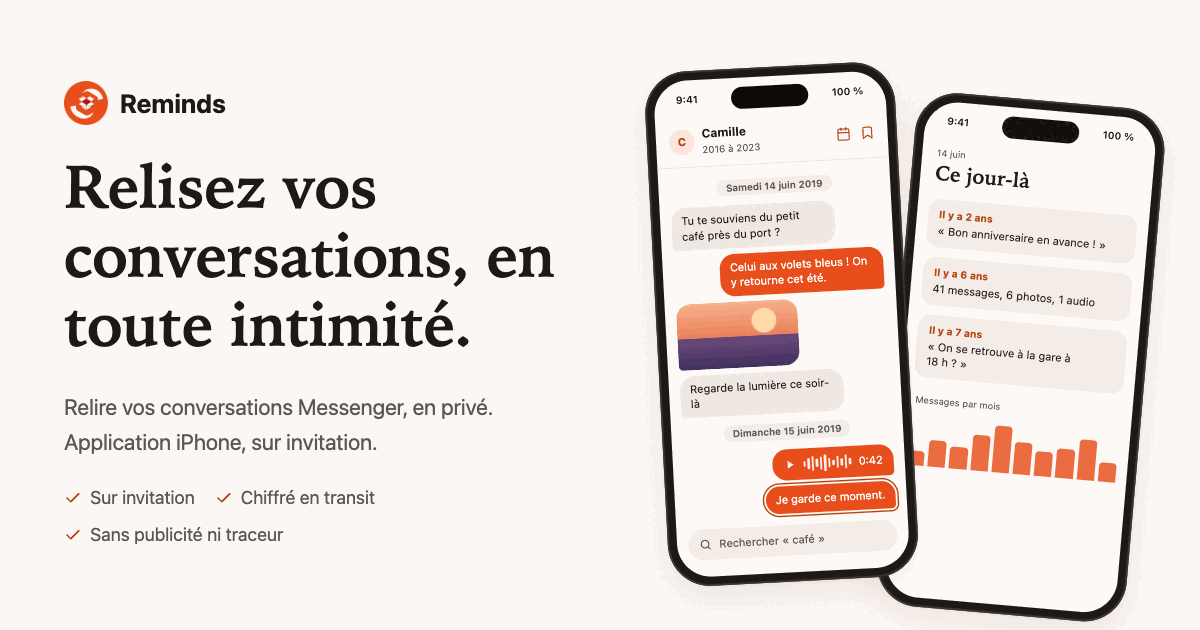
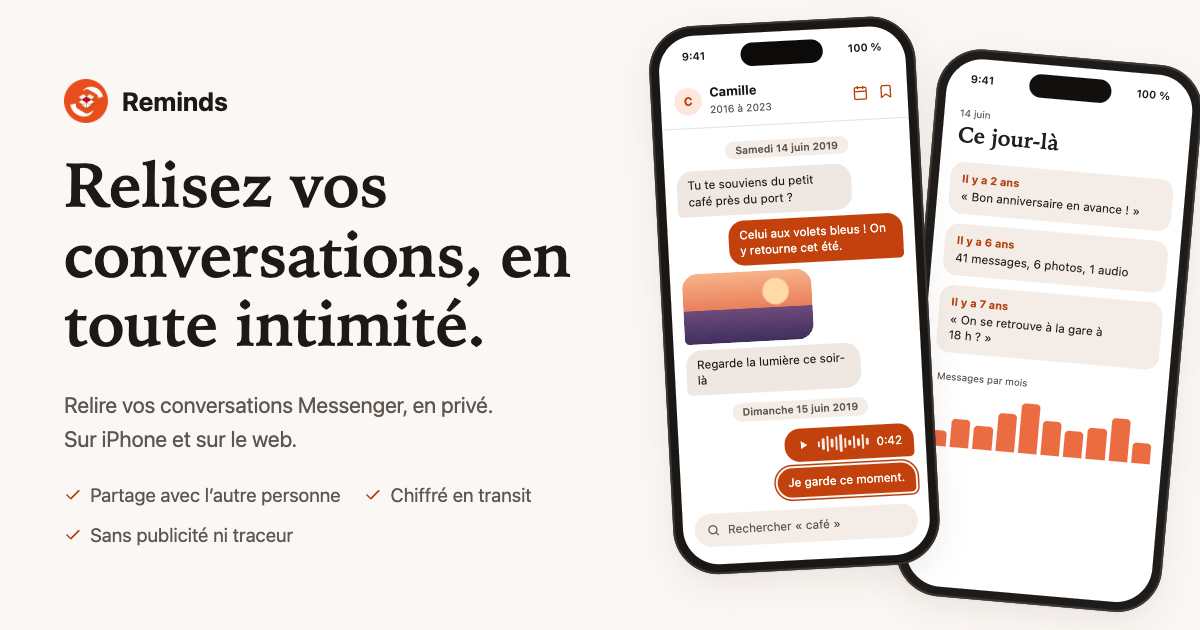
feat(site): open Reminds CTA, honest access steps, web app and iPhone
Primary CTA now opens the web app (/app/) instead of a mailto invitation.
Access section: get the Facebook export, import (coming soon), share with
the other person. Header gets the CTA and a language switch. New OG image.

diff --git a/index.html b/index.html
@@ -4,8 +4,11 @@
   <meta charset="utf-8">
   <meta name="viewport" content="width=device-width, initial-scale=1">
   <title>Reminds : relire vos conversations Messenger, en privé</title>
-  <meta name="description" content="Reminds est une application iPhone privée pour relire vos conversations Messenger : recherche, photos, audios, calendrier, statistiques et « Ce jour-là ». Accès sur invitation.">
+  <meta name="description" content="Reminds, sur iPhone et sur le web, pour relire vos conversations Messenger en privé : recherche, photos, audios, calendrier, statistiques et « Ce jour-là ».">
   <link rel="canonical" href="https://reminds.cybersds.fr/">
+  <link rel="alternate" hreflang="fr" href="https://reminds.cybersds.fr/">
+  <link rel="alternate" hreflang="en" href="https://reminds.cybersds.fr/en/">
+  <link rel="alternate" hreflang="x-default" href="https://reminds.cybersds.fr/">
   <meta name="theme-color" media="(prefers-color-scheme: light)" content="#fbf7f4">
   <meta name="theme-color" media="(prefers-color-scheme: dark)" content="#14110f">
   <link rel="icon" href="/favicon.ico" sizes="any">
@@ -14,9 +17,10 @@
   <link rel="manifest" href="/site.webmanifest">
   <meta property="og:type" content="website">
   <meta property="og:locale" content="fr_FR">
+  <meta property="og:locale:alternate" content="en_US">
   <meta property="og:site_name" content="Reminds">
-  <meta property="og:title" content="Reminds : relire vos conversations, en privé">
-  <meta property="og:description" content="Application iPhone privée pour relire vos conversations Messenger. Accès sur invitation.">
+  <meta property="og:title" content="Reminds : relire vos conversations, en privé">
+  <meta property="og:description" content="Relisez vos conversations Messenger en privé, sur iPhone et sur le web.">
   <meta property="og:url" content="https://reminds.cybersds.fr/">
   <meta property="og:image" content="https://reminds.cybersds.fr/images/og-image.png">
   <meta property="og:image:width" content="1200">
@@ -42,6 +46,8 @@
           <li><a href="#acces">Accès</a></li>
         </ul>
       </nav>
+      <a class="btn btn-primary btn-small header-cta" href="/app/">Ouvrir Reminds</a>
+      <a class="lang-switch" href="/en/" hreflang="en" lang="en" aria-label="English version">EN</a>
       <button class="theme-toggle" type="button" data-theme-toggle aria-pressed="false" aria-label="Thème sombre">
         <svg class="icon-moon" viewBox="0 0 24 24" fill="none" stroke="currentColor" stroke-width="2" stroke-linecap="round" stroke-linejoin="round" aria-hidden="true"><path d="M21 12.8A9 9 0 1 1 11.2 3a7 7 0 0 0 9.8 9.8z"/></svg>
         <svg class="icon-sun" viewBox="0 0 24 24" fill="none" stroke="currentColor" stroke-width="2" stroke-linecap="round" stroke-linejoin="round" aria-hidden="true"><circle cx="12" cy="12" r="4"/><path d="M12 2v2M12 20v2M4.9 4.9l1.4 1.4M17.7 17.7l1.4 1.4M2 12h2M20 12h2M4.9 19.1l1.4-1.4M17.7 6.3l1.4-1.4"/></svg>
@@ -53,21 +59,21 @@
     <section class="hero" aria-labelledby="titre">
       <div class="wrap">
         <div>
-          <p class="eyebrow">Application iPhone privée</p>
+          <p class="eyebrow">Sur iPhone et sur le web, en privé</p>
           <h1 id="titre">Relisez vos conversations, en toute intimité.</h1>
-          <p class="lead">Reminds transforme l'export de vos discussions Messenger en un fil clair, que l'on parcourt et que l'on fouille : messages, photos, audios, dates et souvenirs. Pour vous seul, sur invitation.</p>
+          <p class="lead">Reminds transforme l'export de vos discussions Messenger en un fil clair, que l'on parcourt et que l'on fouille : messages, photos, audios, dates et souvenirs. Pour vous, et pour la personne avec qui vous la partagez.</p>
           <div class="hero-actions">
-            <a class="btn btn-primary" href="mailto:contact@cybersds.fr?subject=Invitation%20Reminds">Demander une invitation</a>
+            <a class="btn btn-primary" href="/app/">Ouvrir Reminds</a>
             <a class="btn btn-secondary" href="#fonctionnalites">Voir les fonctionnalités</a>
           </div>
           <ul class="hero-note">
-            <li><svg viewBox="0 0 24 24" fill="none" stroke="currentColor" stroke-width="2.2" stroke-linecap="round" stroke-linejoin="round" aria-hidden="true"><path d="M20 6 9 17l-5-5"/></svg>Sur invitation</li>
+            <li><svg viewBox="0 0 24 24" fill="none" stroke="currentColor" stroke-width="2.2" stroke-linecap="round" stroke-linejoin="round" aria-hidden="true"><path d="M20 6 9 17l-5-5"/></svg>iPhone et web installable</li>
             <li><svg viewBox="0 0 24 24" fill="none" stroke="currentColor" stroke-width="2.2" stroke-linecap="round" stroke-linejoin="round" aria-hidden="true"><path d="M20 6 9 17l-5-5"/></svg>Chiffré en transit</li>
             <li><svg viewBox="0 0 24 24" fill="none" stroke="currentColor" stroke-width="2.2" stroke-linecap="round" stroke-linejoin="round" aria-hidden="true"><path d="M20 6 9 17l-5-5"/></svg>Sans publicité ni traceur</li>
           </ul>
         </div>
 
-        <div class="phones" role="img" aria-label="Maquette de Reminds sur iPhone : une conversation fictive avec photo, audio et recherche, et l'écran « Ce jour-là ».">
+        <div class="phones" role="img" aria-label="Maquette de Reminds : une conversation fictive avec photo, audio et recherche, et l'écran « Ce jour-là ».">
           <div class="phone phone-back">
             <div class="phone-screen">
               <span class="phone-island"></span>
@@ -135,7 +141,7 @@
           <li class="feature">
             <span class="icon-tile"><svg viewBox="0 0 24 24" fill="none" stroke="currentColor" stroke-width="2" stroke-linecap="round" stroke-linejoin="round" aria-hidden="true"><path d="M21 15v4a2 2 0 0 1-2 2H5a2 2 0 0 1-2-2v-4"/><path d="M7 10l5 5 5-5M12 15V3"/></svg></span>
             <h3>Import de l'export Messenger</h3>
-            <p>Votre export Facebook (format JSON) devient une conversation complète, avec ses photos, GIF et audios.</p>
+            <p>Votre export Facebook (format JSON) devient une conversation complète, avec ses photos, GIF et audios. L'import depuis l'app arrive bientôt.</p>
           </li>
           <li class="feature">
             <span class="icon-tile"><svg viewBox="0 0 24 24" fill="none" stroke="currentColor" stroke-width="2" stroke-linecap="round" stroke-linejoin="round" aria-hidden="true"><circle cx="11" cy="11" r="7"/><path d="m20 20-3.5-3.5"/></svg></span>
@@ -187,11 +193,11 @@
         <ul class="checks">
           <li>
             <span class="icon-tile"><svg viewBox="0 0 24 24" fill="none" stroke="currentColor" stroke-width="2" stroke-linecap="round" stroke-linejoin="round" aria-hidden="true"><path d="M16 21v-2a4 4 0 0 0-4-4H6a4 4 0 0 0-4 4v2"/><circle cx="9" cy="7" r="4"/><path d="M19 8v6M22 11h-6"/></svg></span>
-            <div><strong>Sur invitation uniquement</strong><p>Pas d'inscription publique. Seules les adresses e-mail invitées peuvent se connecter, avec un code à 6 chiffres reçu par e-mail.</p></div>
+            <div><strong>Sur invitation</strong><p>Pas d'inscription publique : on entre dans Reminds parce qu'une conversation vous a été partagée. Connexion avec un code à 6 chiffres reçu par e-mail, ou avec votre compte Google.</p></div>
           </li>
           <li>
             <span class="icon-tile"><svg viewBox="0 0 24 24" fill="none" stroke="currentColor" stroke-width="2" stroke-linecap="round" stroke-linejoin="round" aria-hidden="true"><rect x="3" y="11" width="18" height="11" rx="2"/><path d="M7 11V7a5 5 0 0 1 10 0v4"/></svg></span>
-            <div><strong>Chiffré en transit</strong><p>Tout échange entre l'app et le serveur passe par HTTPS. Les photos et audios ne sont servis qu'avec une session valide, jamais par un lien public.</p></div>
+            <div><strong>Chiffré en transit</strong><p>Tout échange entre Reminds et le serveur passe par HTTPS. Les photos et audios ne sont servis qu'avec une session valide, jamais par un lien public.</p></div>
           </li>
           <li>
             <span class="icon-tile"><svg viewBox="0 0 24 24" fill="none" stroke="currentColor" stroke-width="2" stroke-linecap="round" stroke-linejoin="round" aria-hidden="true"><rect x="2" y="3" width="20" height="8" rx="2"/><rect x="2" y="13" width="20" height="8" rx="2"/><path d="M6 7h.01M6 17h.01"/></svg></span>
@@ -199,7 +205,7 @@
           </li>
           <li>
             <span class="icon-tile"><svg viewBox="0 0 24 24" fill="none" stroke="currentColor" stroke-width="2" stroke-linecap="round" stroke-linejoin="round" aria-hidden="true"><path d="M7 3H5a2 2 0 0 0-2 2v2M17 3h2a2 2 0 0 1 2 2v2M7 21H5a2 2 0 0 1-2-2v-2M17 21h2a2 2 0 0 0 2-2v-2"/><path d="M9 9v1M15 9v1M12 9v4h-1M9 16a4 4 0 0 0 6 0"/></svg></span>
-            <div><strong>Verrou Face ID</strong><p>L'app se verrouille et s'ouvre avec votre visage. La reconnaissance est faite par l'iPhone : rien ne quitte l'appareil.</p></div>
+            <div><strong>Verrou Face ID sur iPhone</strong><p>L'app iPhone se verrouille et s'ouvre avec votre visage. La reconnaissance est faite par l'iPhone : rien ne quitte l'appareil.</p></div>
           </li>
         </ul>
       </div>
@@ -209,28 +215,40 @@
       <div class="wrap">
         <div class="section-head">
           <p class="eyebrow">Accès</p>
-          <h2 id="titre-acces">Sur invitation, en trois étapes.</h2>
-          <p>Reminds n'est pas en libre accès. L'app iPhone est installée en privé pour l'instant ; elle n'est pas encore proposée sur l'App Store.</p>
+          <h2 id="titre-acces">Sur iPhone et sur le web, en trois étapes.</h2>
+          <p>Reminds s'ouvre dans votre navigateur ou sur iPhone. Le même compte, les mêmes conversations, où que vous soyez.</p>
         </div>
+        <ul class="platforms">
+          <li>
+            <span class="icon-tile"><svg viewBox="0 0 24 24" fill="none" stroke="currentColor" stroke-width="2" stroke-linecap="round" stroke-linejoin="round" aria-hidden="true"><rect x="2" y="4" width="20" height="13" rx="2"/><path d="M8 21h8M12 17v4"/></svg></span>
+            <div><strong>App web, installable</strong><p>Sur ordinateur comme sur téléphone, dans le navigateur. Installez-la depuis le navigateur pour l'ouvrir comme une app : elle se met à jour toute seule.</p></div>
+          </li>
+          <li>
+            <span class="icon-tile"><svg viewBox="0 0 24 24" fill="none" stroke="currentColor" stroke-width="2" stroke-linecap="round" stroke-linejoin="round" aria-hidden="true"><rect x="6" y="2" width="12" height="20" rx="3"/><path d="M11 18h2"/></svg></span>
+            <div><strong>App iPhone</strong><p>Avec Face ID et la relecture hors ligne de ce que vous avez déjà ouvert. Installée en privé pour l'instant : elle n'est pas encore sur l'App Store.</p></div>
+          </li>
+        </ul>
         <ol class="steps">
           <li>
-            <h3>Demandez une invitation</h3>
-            <p>Écrivez à <a href="mailto:contact@cybersds.fr?subject=Invitation%20Reminds">contact@cybersds.fr</a> en expliquant votre besoin. Votre adresse e-mail est ajoutée à la liste des personnes invitées.</p>
+            <h3>Récupérez votre export Facebook</h3>
+            <p>Dans les paramètres de Facebook, téléchargez vos informations, rubrique Messages, au format JSON. Facebook vous envoie un fichier zip.</p>
           </li>
           <li>
-            <h3>Votre conversation est importée</h3>
-            <p>Vous téléchargez l'export de vos messages depuis Facebook. Il est importé sur le serveur privé, avec ses photos et audios.</p>
+            <span class="badge">Bientôt disponible</span>
+            <h3>Importez-le dans Reminds</h3>
+            <p>Envoyez le zip depuis l'app web ou l'iPhone et choisissez vos conversations : Reminds les range, avec photos, GIF et audios. L'import est en dernière phase de tests.</p>
           </li>
           <li>
-            <h3>Connectez-vous sur l'iPhone</h3>
-            <p>Saisissez votre e-mail, puis le code reçu. Activez Face ID et relisez, même hors ligne pour ce que vous avez déjà ouvert.</p>
+            <h3>Partagez avec l'autre personne</h3>
+            <p>Partagez une conversation avec la personne qui l'a vécue avec vous : elle reçoit une invitation par e-mail et la retrouve de son côté.</p>
           </li>
         </ol>
 
-        <div class="cta" id="contact">
-          <h2>Une question, une invitation ?</h2>
-          <p>Reminds est édité par CyberShield Dev Solutions. Une seule adresse pour tout : nous répondons par e-mail.</p>
-          <a class="btn btn-primary" href="mailto:contact@cybersds.fr?subject=Reminds">Écrire à contact@cybersds.fr</a>
+        <div class="cta" id="ouvrir">
+          <h2>Vous avez reçu une invitation ?</h2>
+          <p>Ouvrez Reminds avec cette adresse, puis connectez-vous avec le code reçu par e-mail ou avec Google.</p>
+          <a class="btn btn-primary" href="/app/">Ouvrir Reminds</a>
+          <p class="cta-note">L'inscription libre n'est pas encore ouverte : pour l'instant, on entre dans Reminds quand quelqu'un vous partage une conversation.</p>
         </div>
       </div>
     </section>

diff --git a/styles.css b/styles.css
@@ -225,6 +225,37 @@ p {
   color: var(--text);
 }
 
+.lang-switch {
+  display: inline-grid;
+  place-items: center;
+  min-width: 44px;
+  height: 44px;
+  padding: 0 12px;
+  border: 1px solid var(--line);
+  border-radius: 999px;
+  background: var(--surface);
+  color: var(--text);
+  font-size: 0.875rem;
+  font-weight: 700;
+  letter-spacing: 0.04em;
+  text-decoration: none;
+}
+
+.lang-switch:hover {
+  border-color: var(--accent);
+}
+
+.site-header .header-cta {
+  display: none;
+  white-space: nowrap;
+}
+
+@media (min-width: 640px) {
+  .site-header .header-cta {
+    display: inline-flex;
+  }
+}
+
 .theme-toggle {
   display: inline-grid;
   place-items: center;
@@ -822,6 +853,7 @@ p {
 }
 
 .steps li {
+  position: relative;
   counter-increment: step;
   padding: 24px;
   border-radius: var(--radius);
@@ -851,6 +883,64 @@ p {
 .steps p {
   margin: 0;
   color: var(--muted);
+}
+
+.steps .badge {
+  position: absolute;
+  top: 30px;
+  right: 24px;
+}
+
+.badge {
+  display: inline-block;
+  margin: 0;
+  padding: 2px 10px;
+  border-radius: 999px;
+  background: var(--accent-soft);
+  color: var(--accent);
+  font-size: 0.8125rem;
+  font-weight: 700;
+  line-height: 1.6;
+}
+
+.platforms {
+  margin: 0 0 40px;
+  padding: 0;
+  list-style: none;
+  display: grid;
+  gap: 16px;
+}
+
+@media (min-width: 900px) {
+  .platforms {
+    grid-template-columns: repeat(2, 1fr);
+  }
+}
+
+.platforms li {
+  display: grid;
+  grid-template-columns: 44px 1fr;
+  gap: 16px;
+  padding: 20px;
+  border-radius: var(--radius);
+  background: var(--surface);
+  border: 1px solid var(--line);
+}
+
+.platforms strong {
+  display: block;
+  margin-bottom: 4px;
+}
+
+.platforms p {
+  margin: 0;
+  color: var(--muted);
+  font-size: 0.9875rem;
+}
+
+.cta .cta-note {
+  margin: 16px auto 0;
+  font-size: 0.9375rem;
 }
 
 .cta {
@@ -1004,6 +1094,11 @@ p {
 
 .notfound .lead {
   margin: 0 auto 32px;
+}
+
+.notfound-actions {
+  justify-content: center;
+  margin: 0;
 }
 
 /* Hauteurs des barres des maquettes (sans style en ligne, compatible CSP) */

diff --git a/404.html b/404.html
@@ -30,6 +30,8 @@
           <li><a href="/#acces">Accès</a></li>
         </ul>
       </nav>
+      <a class="btn btn-primary btn-small header-cta" href="/app/">Ouvrir Reminds</a>
+      <a class="lang-switch" href="/en/" hreflang="en" lang="en" aria-label="English version">EN</a>
       <button class="theme-toggle" type="button" data-theme-toggle aria-pressed="false" aria-label="Thème sombre">
         <svg class="icon-moon" viewBox="0 0 24 24" fill="none" stroke="currentColor" stroke-width="2" stroke-linecap="round" stroke-linejoin="round" aria-hidden="true"><path d="M21 12.8A9 9 0 1 1 11.2 3a7 7 0 0 0 9.8 9.8z"/></svg>
         <svg class="icon-sun" viewBox="0 0 24 24" fill="none" stroke="currentColor" stroke-width="2" stroke-linecap="round" stroke-linejoin="round" aria-hidden="true"><circle cx="12" cy="12" r="4"/><path d="M12 2v2M12 20v2M4.9 4.9l1.4 1.4M17.7 17.7l1.4 1.4M2 12h2M20 12h2M4.9 19.1l1.4-1.4M17.7 6.3l1.4-1.4"/></svg>
@@ -42,7 +44,10 @@
       <p class="eyebrow">Erreur 404</p>
       <h1>Cette page s'est perdue.</h1>
       <p class="lead">Elle n'existe pas ou n'existe plus. Le reste du site, lui, est toujours là.</p>
-      <a class="btn btn-primary" href="/">Revenir à l'accueil</a>
+      <div class="hero-actions notfound-actions">
+        <a class="btn btn-primary" href="/">Revenir à l'accueil</a>
+        <a class="btn btn-secondary" href="/en/" hreflang="en" lang="en">English home page</a>
+      </div>
     </div>
   </main>
 
